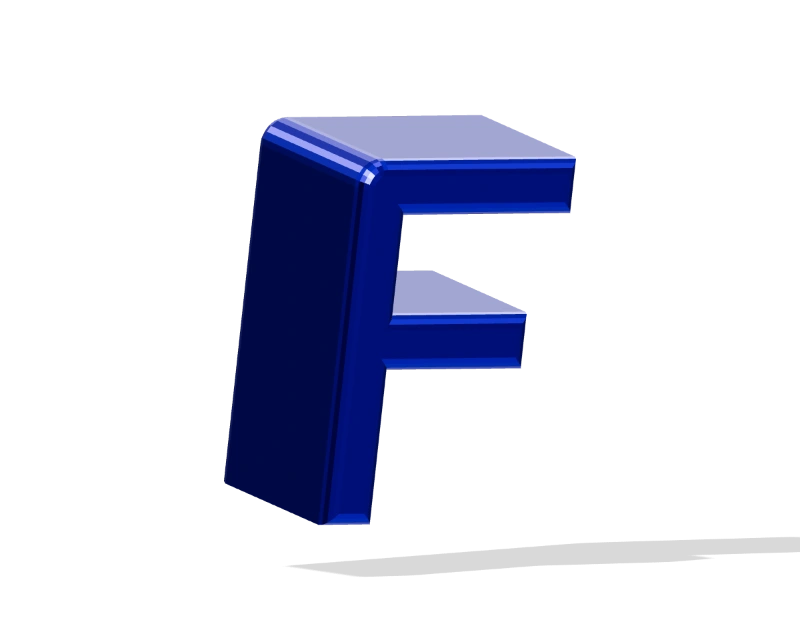
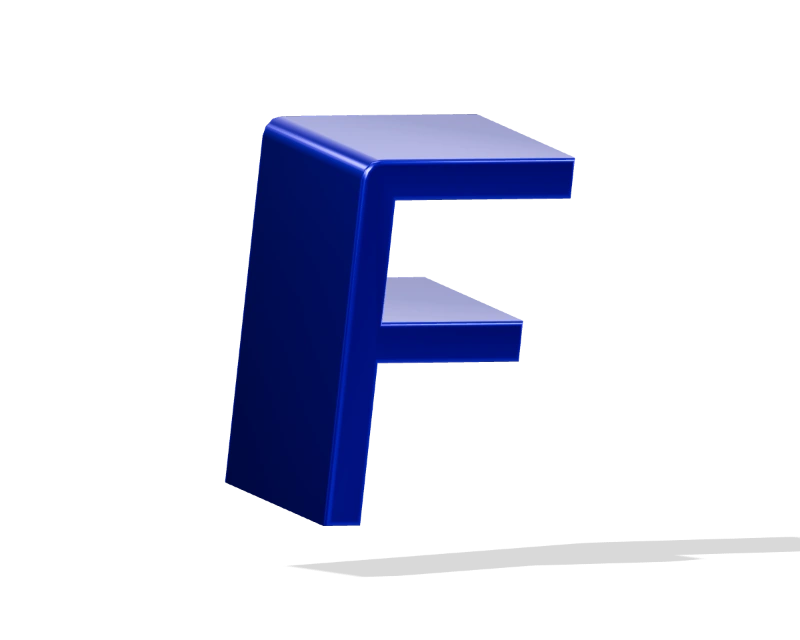
Publish 1.9 download links and the updated product walkthrough

diff --git a/website/index.html b/website/index.html
@@ -4,28 +4,28 @@
 <meta http-equiv="Content-Security-Policy" content="default-src 'self'; script-src 'self'; style-src 'self'; img-src 'self' data:; font-src 'self'; connect-src 'none'; object-src 'none'; frame-src 'none'; base-uri 'none'; form-action 'none'">
 <meta name="referrer" content="strict-origin-when-cross-origin">
 <title>Forma Studio — Give your ideas room.</title><meta name="description" content="A little idea. A whole lot of possibility. An editable desktop design studio with your own AI, campaigns, 3D and optional backups to your Wasabi account. Free for Windows.">
-<meta name="theme-color" content="#faf8f2"><link rel="icon" href="assets/mark.svg"><link rel="preload" href="assets/forma-display.ttf" as="font" type="font/ttf" crossorigin><link rel="stylesheet" href="style.css?v=room3"><script src="site.js?v=room3" defer></script>
+<meta name="theme-color" content="#faf8f2"><link rel="icon" href="assets/mark.svg"><link rel="preload" href="assets/forma-display.ttf" as="font" type="font/ttf" crossorigin><link rel="stylesheet" href="style.css?v=studio190"><script src="site.js?v=studio190" defer></script>
 </head><body>
 <a class="skip" href="#main">Skip to content</a>
 <header class="site-header"><a class="brand" href="#" aria-label="Forma Studio home"><img src="assets/logo.svg" width="170" height="40" alt="Forma Studio"></a><nav aria-label="Main navigation"><a href="#collection">Made with Forma</a><a href="#studio">Meet your studio</a><a href="walkthrough.html">The walkthrough</a></nav><div class="header-actions"><button class="motion-toggle" type="button" aria-label="Pause animations" aria-pressed="false">Ⅱ</button><a class="button small" href="#download">Get Forma </a></div></header>
 <main id="main">
 <section class="hero" aria-labelledby="hero-title">
-  <div class="hero-copy enter"><h1 id="hero-title">A little idea.<br>A whole lot of<br><span class="accent">possibility.</span></h1><p>Give it shape. Give it color. Give it a life of its own.<br>Meet your new desktop design studio.</p><a class="button download-link" href="https://tryformastudio.netlify.app/downloads/v1.8.0/Forma-Studio-Setup-1.8.0.exe">Download for Windows</a><p class="availability">Free for Windows. Your AI account. Your creative freedom.</p></div>
+  <div class="hero-copy enter"><h1 id="hero-title">A little idea.<br>A whole lot of<br><span class="accent">possibility.</span></h1><p>Give it shape. Give it color. Give it a life of its own.<br>Meet your new desktop design studio.</p><a class="button download-link" href="https://tryformastudio.netlify.app/downloads/v1.9.0/Forma-Studio-Setup-1.9.0.exe">Download for Windows</a><p class="availability">Free for Windows. Your AI account. Your creative freedom.</p></div>
   <div class="hero-composition composition-left" aria-hidden="true"><div class="paper-loop"></div><figure class="floating-art art-bloom"><img src="assets/modern-studio-011.webp" width="720" height="720" alt=""></figure><figure class="floating-art art-card"><img src="assets/modern-studio-055.webp" width="720" height="412" alt=""></figure></div>
-  <div class="hero-composition composition-right" aria-hidden="true"><div class="color-disc"></div><figure class="floating-art art-birthday"><img src="assets/modern-studio-083.webp" width="720" height="720" alt=""></figure><figure class="floating-art art-gallery"><img src="assets/modern-studio-113.webp" width="720" height="720" alt=""></figure></div>
+  <div class="hero-composition composition-right" aria-hidden="true"><div class="color-disc"></div><figure class="floating-art art-birthday"><img src="assets/modern-studio-083-v1.9.webp" width="720" height="720" alt=""></figure><figure class="floating-art art-gallery"><img src="assets/modern-studio-113.webp" width="720" height="720" alt=""></figure></div>
 
 </section>
 <section class="collection section" id="collection"><div class="section-heading enter"><h2>Whatever’s in your head,<br><span class="accent">let it out.</span></h2><p>A launch. A birthday. A very big announcement.<br>Start with a design. Make every piece your own.</p></div>
 <div class="gallery-tools"><div class="filters" role="group" aria-label="Template categories"><button type="button" data-filter="all" aria-pressed="true">All designs</button><button type="button" data-filter="business" aria-pressed="false">Business</button><button type="button" data-filter="celebrations" aria-pressed="false">Celebrations</button><button type="button" data-filter="editorial" aria-pressed="false">Posters &amp; editorial</button></div><div class="gallery-navigation"><button class="round gallery-prev" aria-label="Previous templates">Previous</button><button class="round gallery-next" aria-label="Next templates">Next</button></div></div><div class="gallery" tabindex="0" role="region" aria-roledescription="carousel" aria-label="Editable design collection. Swipe or use left and right arrow keys."></div><p class="gallery-count sr-only" aria-live="polite">12 designs on show</p></section>
 <section class="studio section" id="studio"><div class="section-heading enter"><h2>All the tools.<br><span class="accent">All yours.</span></h2><p>Push the type. Crop the photo. Move things around.<br>This is your space to get it just right.</p></div>
-<div class="studio-tabs" role="tablist" aria-label="Explore the real editor"><button id="tab-photo" role="tab" aria-selected="true" aria-controls="editor-photo" data-editor="photo">Photos &amp; layers</button><button id="tab-solid" role="tab" aria-selected="false" aria-controls="editor-solid" tabindex="-1" data-editor="solid">3D objects</button><button id="tab-chart" role="tab" aria-selected="false" aria-controls="editor-chart" tabindex="-1" data-editor="chart">Charts &amp; data</button><button id="tab-campaign" role="tab" aria-selected="false" aria-controls="editor-campaign" tabindex="-1" data-editor="campaign">AI campaigns</button></div>
-<div class="editor-views enter"><figure id="editor-photo" role="tabpanel" aria-labelledby="tab-photo"><img src="assets/editor-photo-v1.5.png" width="1600" height="1000" loading="lazy" alt="Forma’s actual editor with an editable florist campaign, photo crops and individual typography layers"><figcaption>Every word, photo and layer stays editable.</figcaption></figure><figure id="editor-solid" role="tabpanel" aria-labelledby="tab-solid" hidden><img src="assets/editor-solid-v1.5.png" width="1600" height="1000" loading="lazy" alt="The actual Forma editor with native 3D numerals, angle, material and bevel controls"><figcaption>Turn the angle. Change the material. Add some depth.</figcaption></figure><figure id="editor-chart" role="tabpanel" aria-labelledby="tab-chart" hidden><img src="assets/editor-chart-v1.5.png" width="1600" height="1000" loading="lazy" alt="Forma’s pitch deck and chart data editor"><figcaption>Your data, your charts, your story.</figcaption></figure><figure id="editor-campaign" role="tabpanel" aria-labelledby="tab-campaign" hidden><img src="assets/campaign-modern-v1.5.png" width="1600" height="1000" loading="lazy" alt="Forma Campaign Studio with objectives, folders and designs for multiple formats"><figcaption>Keep the campaign together. Give every format its own composition.</figcaption></figure></div></section>
+<div class="studio-tabs" role="tablist" aria-label="Explore the real editor"><button id="tab-photo" role="tab" aria-selected="true" aria-controls="editor-photo" data-editor="photo">Photos &amp; layers</button><button id="tab-solid" role="tab" aria-selected="false" aria-controls="editor-solid" tabindex="-1" data-editor="solid">3D objects</button><button id="tab-chart" role="tab" aria-selected="false" aria-controls="editor-chart" tabindex="-1" data-editor="chart">Charts &amp; data</button><button id="tab-campaign" role="tab" aria-selected="false" aria-controls="editor-campaign" tabindex="-1" data-editor="campaign">AI campaigns</button><button id="tab-whiteboard" role="tab" aria-selected="false" aria-controls="editor-whiteboard" tabindex="-1" data-editor="whiteboard">Whiteboard</button></div>
+<div class="editor-views enter"><figure id="editor-photo" role="tabpanel" aria-labelledby="tab-photo"><img src="assets/editor-photo-v1.5.png" width="1600" height="1000" loading="lazy" alt="Forma’s actual editor with an editable florist campaign, photo crops and individual typography layers"><figcaption>Every word, photo and layer stays editable.</figcaption></figure><figure id="editor-solid" role="tabpanel" aria-labelledby="tab-solid" hidden><img src="assets/smooth-3d-v1.9.png" width="1600" height="1000" loading="lazy" alt="The actual Forma editor with native 3D numerals, angle, material and bevel controls"><figcaption>Turn the angle. Change the material. Add some depth.</figcaption></figure><figure id="editor-chart" role="tabpanel" aria-labelledby="tab-chart" hidden><img src="assets/editor-chart-v1.5.png" width="1600" height="1000" loading="lazy" alt="Forma’s pitch deck and chart data editor"><figcaption>Your data, your charts, your story.</figcaption></figure><figure id="editor-campaign" role="tabpanel" aria-labelledby="tab-campaign" hidden><img src="assets/campaign-modern-v1.5.png" width="1600" height="1000" loading="lazy" alt="Forma Campaign Studio with objectives, folders and designs for multiple formats"><figcaption>Keep the campaign together. Give every format its own composition.</figcaption></figure><figure id="editor-whiteboard" role="tabpanel" aria-labelledby="tab-whiteboard" hidden><img src="assets/whiteboard-v1.9.png" width="1600" height="1000" loading="lazy" alt="Forma whiteboard with a campaign photo, sticky notes, attached connectors and a local comment"><figcaption>Give ideas room. Connect them, move them, keep the plan together.</figcaption></figure></div></section>
 <section class="ai-story section" id="your-ai"><div class="ai-copy enter"><h2>A creative partner.<br><span class="accent">You set the direction.</span></h2><p>Bring your own AI account. Bring your brand’s purpose and your personal style. Then tell Forma what you’re trying to say.</p><p>Create a design, refine a selection, or draw exactly where an image needs a change. Keep shaping it until it feels like you.</p><a class="text-link" href="walkthrough.html#ai-guide">Meet the AI tools </a></div><div class="intent-art enter" aria-label="Brand purpose and personal style coming together in an editable campaign"><div class="intent-paper paper-purpose"><strong>Good things.<br>Grown here.</strong><p>A neighborhood florist.<br>Seasonal flowers. Thoughtful gifts.</p><div class="swatches" aria-label="A florist’s warm green and coral brand palette"><i></i><i></i><i></i><i></i></div></div><figure class="intent-paper paper-result"><img src="assets/modern-studio-011.webp" width="720" height="720" alt="An editable florist promotion with bold typography and photographic flowers" loading="lazy"></figure></div></section>
 <section class="campaign-story section"><div class="campaign-art enter"><img class="campaign-image-one" src="assets/modern-studio-131.webp" width="720" height="405" alt="A florist brand pitch deck" loading="lazy"><img class="campaign-image-two" src="assets/modern-studio-011.webp" width="720" height="720" alt="Coordinated florist campaign artwork" loading="lazy"><div class="campaign-folder" aria-hidden="true"><span>One good idea.<br>Everywhere it needs to be.</span></div></div><div class="campaign-copy enter"><h2>Think bigger<br><span class="accent">than one post.</span></h2><p>Give your campaign an objective. Create focused folders for each message. Add your photos and choose the formats you need.</p><p>Instagram. Facebook. LinkedIn. A poster in the window. Build a collection that belongs together.</p><a class="text-link" href="walkthrough.html#campaigns">Build your first campaign </a></div></section>
-<section class="dimension section" id="dimension"><div class="dimension-copy enter"><h2>Some ideas<br>have <span class="accent">another side.</span></h2><p>Real 3D letters, numbers and objects.<br>Turn them. Light them. Make them move.</p></div><div class="solid-preview enter"><div class="solid-stage" tabindex="0" role="slider" aria-label="Rotate the 3D letter" aria-valuemin="-80" aria-valuemax="80" aria-valuenow="0" aria-valuetext="0 degrees. Use left and right arrow keys."><img id="solid-image" src="assets/solid-turn-8.webp" width="800" height="640" loading="lazy" draggable="false" alt="A dimensional letter F rendered by Forma"></div><div class="solid-controls"><label for="rotation">Take it for a spin</label><output for="rotation" id="rotation-value">0°</output><input id="rotation" aria-label="3D rotation" type="range" min="-80" max="80" step="10" value="0"></div></div></section>
+<section class="dimension section" id="dimension"><div class="dimension-copy enter"><h2>Some ideas<br>have <span class="accent">another side.</span></h2><p>Real 3D letters, numbers and objects.<br>Turn them. Light them. Make them move.</p></div><div class="solid-preview enter"><div class="solid-stage" tabindex="0" role="slider" aria-label="Rotate the 3D letter" aria-valuemin="-80" aria-valuemax="80" aria-valuenow="0" aria-valuetext="0 degrees. Use left and right arrow keys."><img id="solid-image" src="assets/solid-turn-v1.9-8.webp" width="800" height="640" loading="lazy" draggable="false" alt="A dimensional letter F rendered by Forma"></div><div class="solid-controls"><label for="rotation">Take it for a spin</label><output for="rotation" id="rotation-value">0°</output><input id="rotation" aria-label="3D rotation" type="range" min="-80" max="80" step="10" value="0"></div></div></section>
 <section class="backup-story section" id="cloud-backup"><div class="backup-copy enter"><h2>At home on your desktop.<br><span class="accent">Backed up on your terms.</span></h2><p>Your work saves on your device. Want a second copy? Connect your own Wasabi account and send your saved workspace straight to your private bucket.</p><p>Designs, campaigns, photos, fonts and your shared brand and style. Back them up together. Restore projects as copies when you need them.</p><a class="text-link" href="walkthrough.html#cloud-storage">Set up your storage </a></div><div class="backup-art enter" aria-hidden="true"><svg viewBox="0 0 600 460" fill="none"><path class="backup-connection" d="M166 288C69 164 199 73 338 146S568 256 451 328" stroke="#764bdd" stroke-width="5" stroke-dasharray="9 13" stroke-linecap="round"/><g class="backup-folder"><path d="M82 229Q82 207 104 207H178L206 231H342Q364 231 364 253V378Q364 400 342 400H104Q82 400 82 378Z" fill="#d5c2fb" stroke="#392450" stroke-width="3"/><path d="M73 268Q69 250 89 250H355Q375 250 371 270L351 390Q348 407 328 407H111Q91 407 88 388Z" fill="#764bdd" stroke="#392450" stroke-width="3"/><path d="M156 348V310Q156 285 181 285H232L214 303H183Q173 303 173 315V318H211L193 335H173V348Z" fill="#fff9e9"/><path d="M197 352H222Q237 352 237 337V314L254 297V337Q254 369 222 369H180Z" fill="#fff9e9"/></g><g class="backup-cloud"><path d="M362 93C365 48 420 34 448 65C482 53 507 74 507 103C544 105 558 152 531 174C521 182 505 184 491 184H367C315 184 309 113 351 98Z" fill="#ffe28b" stroke="#392450" stroke-width="3"/><path d="M398 126L416 144L450 110" stroke="#392450" stroke-width="5" stroke-linecap="round" stroke-linejoin="round"/></g></svg></div></section>
-<section class="download section" id="download"><div class="download-top enter"><h2>Go on.<br><span class="accent">See what happens.</span></h2><div><p class="download-price">A whole studio.<br>Free for Windows.</p><a class="button download-link" href="https://tryformastudio.netlify.app/downloads/v1.8.0/Forma-Studio-Setup-1.8.0.exe">Download Forma</a><p>Install it. Open it. Make something yours.</p><p class="mac"><a href="https://tryformastudio.netlify.app/mac.html">Mac · $49 once <span>Coming soon</span></a></p></div></div>
-<div class="faq"><details><summary>What am I downloading?<span aria-hidden="true">+</span></summary><p>Forma Studio <span class="app-version">1.8.0</span> for Windows 10/11, 64-bit. The installer includes the editor, local AI worker and Codex CLI. Open it from your desktop or Start menu. This release is unsigned.</p></details><details><summary>Do I need an AI subscription?<span aria-hidden="true">+</span></summary><p>Manual design tools and exports work without AI, including offline. AI tools use your own Codex, Claude, Gemini or Kimi account through its installed CLI. Choose one provider, or let Claude plan before Codex builds. Native AI image creation uses Codex. Internet access and provider usage apply. Forma does not include an AI subscription or charge for provider usage.</p></details><details><summary>Does my work leave my computer?<span aria-hidden="true">+</span></summary><p>Designs save locally. AI requests send the relevant brief and content to your provider. Optional Wasabi backups go directly to the storage account you connect; Wasabi bills you separately. Mac payments and activation use managed Stripe and Netlify services.</p></details><details><summary>When can I get the Mac edition?<span aria-hidden="true">+</span></summary><p>Mac is $49 as a one-time payment for one Mac, with Intel and Apple Silicon support on macOS 12 or later. Checkout stays closed until the signed Mac installer and payment delivery are ready. <a href="https://tryformastudio.netlify.app/mac.html">Check Mac availability</a></p></details></div></section>
+<section class="download section" id="download"><div class="download-top enter"><h2>Go on.<br><span class="accent">See what happens.</span></h2><div><p class="download-price">A whole studio.<br>Free for Windows.</p><a class="button download-link" href="https://tryformastudio.netlify.app/downloads/v1.9.0/Forma-Studio-Setup-1.9.0.exe">Download Forma</a><p>Install it. Open it. Make something yours.</p><p class="mac"><a href="https://tryformastudio.netlify.app/mac.html">Mac · $49 once <span>Coming soon</span></a></p></div></div>
+<div class="faq"><details><summary>What am I downloading?<span aria-hidden="true">+</span></summary><p>Forma Studio <span class="app-version">1.9.0</span> for Windows 10/11, 64-bit. The installer includes the editor, local AI worker and Codex CLI. Open it from your desktop or Start menu. This release is unsigned.</p></details><details><summary>Do I need an AI subscription?<span aria-hidden="true">+</span></summary><p>Manual design tools and exports work without AI, including offline. AI tools use your own Codex, Claude, Gemini or Kimi account through its installed CLI. Choose one provider, or let Claude plan before Codex builds. Native AI image creation uses Codex. Internet access and provider usage apply. Forma does not include an AI subscription or charge for provider usage.</p></details><details><summary>Does my work leave my computer?<span aria-hidden="true">+</span></summary><p>Designs save locally. AI requests send the relevant brief and content to your provider. Optional Wasabi backups go directly to the storage account you connect; Wasabi bills you separately. Mac payments and activation use managed Stripe and Netlify services.</p></details><details><summary>When can I get the Mac edition?<span aria-hidden="true">+</span></summary><p>Mac is $49 as a one-time payment for one Mac, with Intel and Apple Silicon support on macOS 12 or later. Checkout stays closed until the signed Mac installer and payment delivery are ready. <a href="https://tryformastudio.netlify.app/mac.html">Check Mac availability</a></p></details></div></section>
 </main><footer><a href="#" aria-label="Forma Studio home"><img src="assets/logo-light.svg" width="215" height="51" alt="Forma Studio"></a><p>Good ideas deserve room.</p><a href="walkthrough.html">The walkthrough</a></footer>
-<dialog id="template-preview" aria-labelledby="preview-title"><div class="dialog-top"><h2 id="preview-title">Design preview</h2><button class="round close-preview" type="button" aria-label="Close preview">×</button></div><img id="preview-image" alt=""><a class="button download-link" href="https://tryformastudio.netlify.app/downloads/v1.8.0/Forma-Studio-Setup-1.8.0.exe">Make it yours in Forma</a></dialog>
+<dialog id="template-preview" aria-labelledby="preview-title"><div class="dialog-top"><h2 id="preview-title">Design preview</h2><button class="round close-preview" type="button" aria-label="Close preview">×</button></div><img id="preview-image" alt=""><a class="button download-link" href="https://tryformastudio.netlify.app/downloads/v1.9.0/Forma-Studio-Setup-1.9.0.exe">Make it yours in Forma</a></dialog>
 </body></html>

diff --git a/website/walkthrough.html b/website/walkthrough.html
@@ -7,10 +7,10 @@
 <meta name="theme-color" content="#f5f2e9"><link rel="icon" href="assets/mark.svg"><link rel="stylesheet" href="style.css?v=modern1"><link rel="stylesheet" href="walkthrough.css">
 </head><body class="guide-page"><a class="skip" href="#main">Skip to content</a>
 <header class="site-header"><a class="brand" href="index.html" aria-label="Forma Studio home"><img src="assets/logo.svg" width="174" height="50" alt="Forma Studio"></a><nav aria-label="Main navigation"><a href="#first-design">First design</a><a href="#ai-guide">Your AI</a><a href="#save">Save &amp; export</a></nav><a class="button small" href="index.html#download">Get Forma </a></header>
-<main id="main" class="guide-main"><section class="guide-intro"><p class="guide-kicker">The walkthrough</p><h1>Your idea.<br><span class="accent">Start here.</span></h1><p>From opening Forma to making something your own.</p><a class="button" href="https://tryformastudio.netlify.app/downloads/v1.8.0/Forma-Studio-Setup-1.8.0.exe">Download for Windows </a></section>
+<main id="main" class="guide-main"><section class="guide-intro"><p class="guide-kicker">The walkthrough</p><h1>Your idea.<br><span class="accent">Start here.</span></h1><p>From opening Forma to making something your own.</p><a class="button" href="https://tryformastudio.netlify.app/downloads/v1.9.0/Forma-Studio-Setup-1.9.0.exe">Download for Windows </a></section>
 <section class="guide-section" id="install"><div class="guide-copy"><span class="guide-number">01</span><h2>Install. Open. Create.</h2><p>Download the Windows installer, run it and choose your installation folder. Open <strong>Forma Studio</strong> from your desktop or Start menu. No terminal, Node.js or Docker is needed for everyday use.</p><p>Windows 10/11, 64-bit. The current installer is unsigned, so Windows may show an unknown-publisher warning.</p></div><figure><img src="assets/editor-v1.8.png" width="1440" height="900" alt="The Forma editor with its design canvas and main actions" loading="lazy"><figcaption>The desktop editor. Your work stays editable.</figcaption></figure></section>
 <section class="guide-section" id="first-design"><div class="guide-copy"><span class="guide-number">02</span><h2>Make your first design.</h2><p>Choose a template from <strong>Design</strong>, or start a blank canvas. Add text, photos and elements from the sidebar. Drag to arrange, use the handles to resize, and select several objects to move or group them together.</p><p>Right-click a selection for actions such as <strong>Improve with AI</strong>. Undo is always there while you explore.</p></div><div class="guide-note"><h3>Give it your direction.</h3><p>Open <strong>Brand / Set up brand &amp; style</strong>. Add your business, mission, palette and personal design preferences in one place. This gives the AI shared context for future requests.</p><img src="assets/guide-brand-and-style-v1.6.png" width="1440" height="900" alt="Combined brand and personal design-style setup" loading="lazy"></div></section>
-<section class="guide-section" id="ai-guide"><div class="guide-copy"><span class="guide-number">03</span><h2>Your AI.<br>Your direction.</h2><p>Open <strong>AI Designer / AI account &amp; connection</strong>. Choose Codex, Claude, Gemini or Kimi, using your own installed and signed-in CLI. Codex is included with Forma. Or choose <strong>Claude plans / Codex builds</strong> for a sequential handoff. Only one model runs at a time. A detected CLI still needs an authenticated account with available usage.</p><p>AI needs your own supported account, internet access and available provider usage. The brief and relevant content go to that provider; account costs are separate from Forma. Manual editing and exports work offline.</p></div><div class="guide-note"><h3>A brief that helps.</h3><p>Describe the audience, purpose, format, main message and what must stay unchanged. Upload the images you want used. Review the result and any review warnings before applying it.</p><h3>See the work being submitted.</h3><p>In the same connection panel, open <strong>Peek under the commands</strong> to inspect submitted instructions, commands, actions and results. The activity view omits private reasoning and redacts recognized credentials.</p><h3>Change one specific area.</h3><p>Photo generation, AI Pencil and Magic Eraser use Codex native image generation. Select a photo, right-click and choose <strong>AI Pencil</strong>. Mark the area, describe the change, and review it in the context of the original image.</p></div></section>
+<section class="guide-section" id="ai-guide"><div class="guide-copy"><span class="guide-number">03</span><h2>Your AI.<br>Your direction.</h2><p>Open <strong>Help / AI accounts &amp; models</strong>. Choose Codex, Claude, Gemini or Kimi, using your own installed and signed-in CLI. Codex is included with Forma. Or choose <strong>Claude plans / Codex builds</strong> for a sequential handoff. Only one model runs at a time. A detected CLI still needs an authenticated account with available usage.</p><p>AI needs your own supported account, internet access and available provider usage. The brief and relevant content go to that provider; account costs are separate from Forma. Manual editing and exports work offline.</p></div><div class="guide-note"><img src="assets/ai-help-v1.9.png" width="1600" height="1000" alt="AI accounts and model settings in the Forma Help screen" loading="lazy"><h3>Connect your account.</h3><p>In the desktop app, choose Sign in to Claude, Codex or Kimi. The sequential workflow shows both Claude and Codex buttons. For Claude, choose subscription sign-in or your existing API billing. Complete sign-in, then save the AI choice. Gemini uses its own CLI sign-in.</p><h3>A brief that helps.</h3><p>Describe the audience, purpose, format, main message and what must stay unchanged. Upload the images you want used. Review the result and any review warnings before applying it.</p><h3>See the work being submitted.</h3><p>In the same connection panel, open <strong>Peek under the commands</strong> to inspect submitted instructions, commands, actions and results. The activity view omits private reasoning and redacts recognized credentials.</p><h3>Change one specific area.</h3><p>Photo generation, AI Pencil and Magic Eraser use Codex native image generation. Select a photo, right-click and choose <strong>AI Pencil</strong>. Mark the area, describe the change, and review it in the context of the original image.</p></div></section>
 <section class="guide-section" id="campaigns"><div class="guide-copy"><span class="guide-number">04</span><h2>Build a campaign.</h2><p>Open <strong>Campaigns</strong> in the editor header. Create the campaign around one objective, then use folders for different audiences, offers or subcampaigns.</p><p>Give each folder its intent, choose the formats and quantity, upload your images, then create the designs. Review and edit each result before exporting.</p></div><div class="guide-note"><h3>Keep the details editable.</h3><p>Add charts and edit their data in the inspector. Use photo frames and crop controls, rotate 3D objects, and adjust individual text and graphic layers.</p><img src="assets/guide-advanced-chart-editor-v1.6.png" width="1440" height="900" alt="Editable chart data and chart styles in the Forma inspector" loading="lazy"></div></section>
-<section class="guide-section" id="save"><div class="guide-copy"><span class="guide-number">05</span><h2>Keep it.<br>Share it.</h2><p>Your designs save on this device. Use <strong>Export / Forma JSON</strong> for an editable backup or to move a design to another computer. Import that file into Forma to keep working.</p><p>Export finished work as PNG, JPG, SVG or PDF. Use GIF for silent animation, or MP4 / WebM for movies with saved page audio. Select all pages to stitch them into one movie. Keep an editable JSON backup before moving or uninstalling the app.</p></div><div class="guide-note"><h3>Give it a soundtrack.</h3><p>Choose <strong>Audio</strong> beside the page strip to record or import clips. Set trim and timeline positions to hundredths of a second. Speed and volume start at 100%. Split and join clips, download an MP3 or WAV mix, or choose <strong>Save audio &amp; create movie</strong>. Speed changes also change pitch.</p><img src="assets/audio-v1.8.png" width="1500" height="1000" alt="Page audio controls for trim, timeline position, speed and volume" loading="lazy"><h3>Stay up to date.</h3><p>Choose <strong>Help / Check for updates</strong>. Download the update, then choose <strong>Save &amp; restart</strong> when you are ready. Your designs remain on the device.</p><p>Versions 1.1.x need the current installer once to enable future in-app updates.</p><a class="button" href="index.html#download">Get Forma </a></div></section><section class="guide-section" id="cloud-storage"><div class="guide-copy"><h2>Your storage.<br><span class="accent">Your choice.</span></h2><p>In the desktop app, open <strong>My designs / Cloud storage</strong>. Connect your own Wasabi account to back up designs, campaigns, uploads, fonts, text kits and your shared brand and style together.</p><p>Local saves continue independently. Cloud keys are encrypted on your computer; backup transfers go directly to your private Wasabi bucket. Wasabi bills your account separately.</p><p>Choose <strong>Back up now</strong> or enable automatic backups of changed saved work, up to every 15 minutes while Forma is open. Backups are compressed and limited to 256 MB of saved workspace data each. Built-in assets and AI credentials are not uploaded.</p></div><div class="guide-note"><h3>Connect your bucket.</h3><ol><li>Create a <a href="https://wasabi.com/" target="_blank" rel="noreferrer">Wasabi account</a> and a private bucket. Keep public access off.</li><li>Create a dedicated programmatic user with <strong>s3:ListBucket</strong> on that bucket and <strong>s3:PutObject</strong> / <strong>s3:GetObject</strong> on <strong>YOUR_BUCKET/forma-studio/backups/*</strong>. Delete access is not needed.</li><li>Create the user's access key. In Forma, enter its bucket, region, matching <a href="https://docs.wasabi.com/docs/what-are-the-service-urls-for-wasabi-s-different-storage-regions" target="_blank" rel="noreferrer">HTTPS endpoint</a>, access key and secret.</li><li>Choose <strong>Connect &amp; back up</strong>. Wait for the completed-backup confirmation.</li></ol><h3>Recover without losing current projects.</h3><p>Choose <strong>Browse backups / Review restore</strong>. Restore adds designs and campaigns as new copies. You decide whether to use the saved brand and style. Unfinished AI work stays paused until you resume it. Finish or pause running campaigns first, then reopen the studio after restoring.</p><p>Disconnect keeps the existing backups in your account. Manage history and retention there. Review Wasabi’s <a href="https://docs.wasabi.com/docs/how-does-wasabis-monthly-minimum-storage-charge-work" target="_blank" rel="noreferrer">storage minimums</a> and <a href="https://docs.wasabi.com/docs/how-does-wasabis-minimum-storage-duration-policy-work" target="_blank" rel="noreferrer">retention billing</a>.</p></div></section></main>
+<section class="guide-section" id="whiteboard"><div class="guide-copy"><h2>Give the idea<br><span class="accent">some room.</span></h2><p>Choose <strong>New design / Whiteboard</strong>. Add photos, containers and sticky notes. Draw a connector between objects, or select two and connect them. Drag an end to reconnect it, or the middle handle to bend it.</p><p>Attached arrows follow objects as they move and resize. Routes avoid obstructions; Properties controls labels, colors, patterns and end markers. Notes and photos inside a container move together. Hold Space and drag to pan.</p><p>Use the existing marker, highlighter and stroke eraser. Add local comment pins, resolve them, and keep them with the editable backup. Comment pins stay out of finished artwork exports.</p></div><figure><img src="assets/whiteboard-v1.9.png" width="1600" height="1000" alt="A real Forma whiteboard with photos, sticky notes, attached arrows and a comment" loading="lazy"><figcaption>Plan, connect and review in your local workspace.</figcaption></figure></section><section class="guide-section" id="photo-filters"><div class="guide-copy"><h2>See the look.<br><span class="accent">Then choose.</span></h2><p>Select a photo and open <strong>Properties / Photo filters</strong>. Each of the 28 looks previews your selected photo above its name, with its crop and current adjustments. Stack up to six looks, change strengths and brightness, reorder or reset them.</p><p>Previews are generated locally from small copies. Your original image stays editable.</p></div><figure><img src="assets/photo-filter-previews-v1.9.png" width="1600" height="1000" alt="The selected photo previewed above every filter name in Forma" loading="lazy"></figure></section><section class="guide-section" id="save"><div class="guide-copy"><span class="guide-number">05</span><h2>Keep it.<br>Share it.</h2><p>Your designs save on this device. Use <strong>Export / Forma JSON</strong> for an editable backup or to move a design to another computer. Import that file into Forma to keep working.</p><p>Export finished work as PNG, JPG, SVG or PDF. Use GIF for silent animation, or MP4 / WebM for movies with saved page audio. Select all pages to stitch them into one movie. Keep an editable JSON backup before moving or uninstalling the app.</p></div><div class="guide-note"><h3>Give it a soundtrack.</h3><p>Choose <strong>Audio</strong> beside the page strip to record or import clips. Set trim and timeline positions to hundredths of a second. Speed and volume start at 100%. Split and join clips, download an MP3 or WAV mix, or choose <strong>Save audio &amp; create movie</strong>. Speed changes also change pitch.</p><img src="assets/audio-v1.8.png" width="1500" height="1000" alt="Page audio controls for trim, timeline position, speed and volume" loading="lazy"><h3>Stay up to date.</h3><p>Choose <strong>Help / Check for updates</strong>. Download the update, then choose <strong>Save &amp; restart</strong> when you are ready. Your designs remain on the device.</p><p>Versions 1.1.x need the current installer once to enable future in-app updates.</p><a class="button" href="index.html#download">Get Forma </a></div></section><section class="guide-section" id="cloud-storage"><div class="guide-copy"><h2>Your storage.<br><span class="accent">Your choice.</span></h2><p>In the desktop app, open <strong>My designs / Cloud storage</strong>. Connect your own Wasabi account to back up designs, campaigns, uploads, fonts, text kits and your shared brand and style together.</p><p>Local saves continue independently. Cloud keys are encrypted on your computer; backup transfers go directly to your private Wasabi bucket. Wasabi bills your account separately.</p><p>Choose <strong>Back up now</strong> or enable automatic backups of changed saved work, up to every 15 minutes while Forma is open. Backups are compressed and limited to 256 MB of saved workspace data each. Built-in assets and AI credentials are not uploaded.</p></div><div class="guide-note"><h3>Connect your bucket.</h3><ol><li>Create a <a href="https://wasabi.com/" target="_blank" rel="noreferrer">Wasabi account</a> and a private bucket. Keep public access off.</li><li>Create a dedicated programmatic user with <strong>s3:ListBucket</strong> on that bucket and <strong>s3:PutObject</strong> / <strong>s3:GetObject</strong> on <strong>YOUR_BUCKET/forma-studio/backups/*</strong>. Delete access is not needed.</li><li>Create the user's access key. In Forma, enter its bucket, region, matching <a href="https://docs.wasabi.com/docs/what-are-the-service-urls-for-wasabi-s-different-storage-regions" target="_blank" rel="noreferrer">HTTPS endpoint</a>, access key and secret.</li><li>Choose <strong>Connect &amp; back up</strong>. Wait for the completed-backup confirmation.</li></ol><h3>Recover without losing current projects.</h3><p>Choose <strong>Browse backups / Review restore</strong>. Restore adds designs and campaigns as new copies. You decide whether to use the saved brand and style. Unfinished AI work stays paused until you resume it. Finish or pause running campaigns first, then reopen the studio after restoring.</p><p>Disconnect keeps the existing backups in your account. Manage history and retention there. Review Wasabi’s <a href="https://docs.wasabi.com/docs/how-does-wasabis-monthly-minimum-storage-charge-work" target="_blank" rel="noreferrer">storage minimums</a> and <a href="https://docs.wasabi.com/docs/how-does-wasabis-minimum-storage-duration-policy-work" target="_blank" rel="noreferrer">retention billing</a>.</p></div></section></main>
 <footer><div class="footer-top"><a href="index.html" aria-label="Forma Studio home"><img src="assets/logo-light.svg" width="210" height="60" alt="Forma Studio"></a><div><a href="index.html">Back to Forma /</a></div></div></footer></body></html>

diff --git a/website/site.js b/website/site.js
@@ -4,16 +4,17 @@ function setPaused(value){paused=value;document.body.classList.toggle('motion-pa
 const entrances=new IntersectionObserver(entries=>entries.forEach(entry=>{if(entry.isIntersecting){entry.target.classList.add('in-view');entrances.unobserve(entry.target);}}),{threshold:.09,rootMargin:'0px 0px -20px 0px'});document.querySelectorAll('.enter').forEach(node=>entrances.observe(node));
 const items=[['studio-011','This week in bloom','Photographic campaign','editorial'],['studio-055','Leah Atlas','Architect business card','business'],['studio-083','Sweet sixteen','Editable 3D birthday invitation','celebrations'],['occasion-075','Quiet spaces','Architecture editorial','editorial'],['studio-107','The pastry edit','Bakery flyer','editorial'],['studio-131','Petal','A four-page pitch deck','business'],['studio-087','Fifty, in good company','Garden supper invitation','celebrations'],['studio-113','Forms in conversation','Gallery poster','editorial'],['occasion-065','Move stronger','Fitness campaign','editorial'],['studio-016','A transparent scope','Project estimate','business'],['occasion-012','Save the date','Calendar wedding invitation','celebrations'],['studio-058','Nia Brooks','Designer business card','business']];
 const gallery=document.querySelector('.gallery'),count=document.querySelector('.gallery-count'),dialog=document.querySelector('#template-preview'),previewImage=document.querySelector('#preview-image'),previewTitle=document.querySelector('#preview-title');let suppressClick=false;
-function openPreview(item){if(suppressClick)return;previewImage.src=`assets/modern-${item[0]}.webp`;previewImage.alt=item[2];previewTitle.textContent=item[1];dialog.showModal();}
-function renderGallery(filter){gallery.replaceChildren();const visible=items.filter(item=>filter==='all'||item[3]===filter);for(const item of visible){const card=document.createElement('article');card.className='gallery-card enter';card.style.setProperty('--stagger',`${visible.indexOf(item)%3*.07}s`);const button=document.createElement('button');button.type='button';button.setAttribute('aria-label',`Preview ${item[1]}`);const image=new Image();image.src=`assets/modern-${item[0]}.webp`;image.alt=item[2];image.loading='lazy';image.draggable=false;button.append(image);button.addEventListener('click',()=>openPreview(item));const name=document.createElement('h3');name.textContent=item[1];const caption=document.createElement('p');caption.textContent=item[2];card.append(button,name,caption);gallery.append(card);entrances.observe(card);attachSurface(button);}gallery.scrollLeft=0;count.textContent=`${visible.length} designs on show`;}
+function designAsset(id){return `assets/modern-${id}${id==='studio-083'?'-v1.9':''}.webp`;}
+function openPreview(item){if(suppressClick)return;previewImage.src=designAsset(item[0]);previewImage.alt=item[2];previewTitle.textContent=item[1];dialog.showModal();}
+function renderGallery(filter){gallery.replaceChildren();const visible=items.filter(item=>filter==='all'||item[3]===filter);for(const item of visible){const card=document.createElement('article');card.className='gallery-card enter';card.style.setProperty('--stagger',`${visible.indexOf(item)%3*.07}s`);const button=document.createElement('button');button.type='button';button.setAttribute('aria-label',`Preview ${item[1]}`);const image=new Image();image.src=designAsset(item[0]);image.alt=item[2];image.loading='lazy';image.draggable=false;button.append(image);button.addEventListener('click',()=>openPreview(item));const name=document.createElement('h3');name.textContent=item[1];const caption=document.createElement('p');caption.textContent=item[2];card.append(button,name,caption);gallery.append(card);entrances.observe(card);attachSurface(button);}gallery.scrollLeft=0;count.textContent=`${visible.length} designs on show`;}
 renderGallery('all');document.querySelectorAll('[data-filter]').forEach(button=>button.addEventListener('click',()=>{document.querySelectorAll('[data-filter]').forEach(b=>b.setAttribute('aria-pressed',String(b===button)));renderGallery(button.dataset.filter);}));
 function scrollGallery(direction){const width=gallery.firstElementChild?.getBoundingClientRect().width||300;gallery.scrollBy({left:direction*(width+25),behavior:paused?'instant':'smooth'});}document.querySelector('.gallery-prev').addEventListener('click',()=>scrollGallery(-1));document.querySelector('.gallery-next').addEventListener('click',()=>scrollGallery(1));gallery.addEventListener('keydown',event=>{if(event.target!==gallery)return;if(event.key==='ArrowRight'||event.key==='ArrowLeft'){event.preventDefault();scrollGallery(event.key==='ArrowRight'?1:-1);}});
 let drag=null;gallery.addEventListener('pointerdown',e=>{if(e.pointerType!=='mouse'||e.button!==0)return;drag={x:e.clientX,scroll:gallery.scrollLeft,moved:false};});gallery.addEventListener('pointermove',e=>{if(!drag)return;const delta=e.clientX-drag.x;if(Math.abs(delta)>6){drag.moved=true;suppressClick=true;gallery.classList.add('dragging');gallery.scrollLeft=drag.scroll-delta;}});window.addEventListener('pointerup',()=>{if(!drag)return;const moved=drag.moved;drag=null;gallery.classList.remove('dragging');if(moved)setTimeout(()=>suppressClick=false,0);});
 document.querySelector('.close-preview').addEventListener('click',()=>dialog.close());dialog.addEventListener('click',event=>{const r=dialog.getBoundingClientRect();if(event.clientX<r.left||event.clientX>r.right||event.clientY<r.top||event.clientY>r.bottom)dialog.close();});
 const tabs=[...document.querySelectorAll('[data-editor]')];function selectEditor(button,focus=false){for(const tab of tabs){const active=tab===button;tab.setAttribute('aria-selected',String(active));tab.tabIndex=active?0:-1;document.querySelector(`#editor-${tab.dataset.editor}`).hidden=!active;}if(focus)button.focus();}tabs.forEach((tab,index)=>{tab.addEventListener('click',()=>selectEditor(tab));tab.addEventListener('keydown',event=>{let next;if(event.key==='ArrowRight')next=(index+1)%tabs.length;if(event.key==='ArrowLeft')next=(index-1+tabs.length)%tabs.length;if(event.key==='Home')next=0;if(event.key==='End')next=tabs.length-1;if(next!==undefined){event.preventDefault();selectEditor(tabs[next],true);}});});
-const rotation=document.querySelector('#rotation'),solidStage=document.querySelector('.solid-stage'),solidImage=document.querySelector('#solid-image'),rotationValue=document.querySelector('#rotation-value');function rotate(raw){const angle=Math.max(-80,Math.min(80,Math.round(raw/10)*10));rotation.value=angle;rotationValue.textContent=`${angle}°`;solidStage.setAttribute('aria-valuenow',angle);solidStage.setAttribute('aria-valuetext',`${angle} degrees. Use left and right arrow keys.`);solidImage.src=`assets/solid-turn-${(angle+80)/10}.webp`;}
+const rotation=document.querySelector('#rotation'),solidStage=document.querySelector('.solid-stage'),solidImage=document.querySelector('#solid-image'),rotationValue=document.querySelector('#rotation-value');function rotate(raw){const angle=Math.max(-80,Math.min(80,Math.round(raw/10)*10));rotation.value=angle;rotationValue.textContent=`${angle}°`;solidStage.setAttribute('aria-valuenow',angle);solidStage.setAttribute('aria-valuetext',`${angle} degrees. Use left and right arrow keys.`);solidImage.src=`assets/solid-turn-v1.9-${(angle+80)/10}.webp`;}
 rotation.addEventListener('input',()=>rotate(Number(rotation.value)));solidStage.addEventListener('keydown',e=>{if(['ArrowLeft','ArrowRight','Home','End'].includes(e.key)){e.preventDefault();rotate(e.key==='Home'?-80:e.key==='End'?80:Number(rotation.value)+(e.key==='ArrowLeft'?-10:10));}});let solidDrag=null;solidStage.addEventListener('pointerdown',e=>{solidDrag={x:e.clientX,angle:Number(rotation.value)};solidStage.setPointerCapture(e.pointerId);});solidStage.addEventListener('pointermove',e=>{if(solidDrag)rotate(solidDrag.angle+(e.clientX-solidDrag.x)*.65);});solidStage.addEventListener('pointerup',()=>solidDrag=null);solidStage.addEventListener('pointercancel',()=>solidDrag=null);
-new IntersectionObserver(entries=>{if(entries[0].isIntersecting){for(let i=0;i<17;i++){const image=new Image();image.src=`assets/solid-turn-${i}.webp`;}}},{rootMargin:'200px'}).observe(solidStage);
+new IntersectionObserver(entries=>{if(entries[0].isIntersecting){for(let i=0;i<17;i++){const image=new Image();image.src=`assets/solid-turn-v1.9-${i}.webp`;}}},{rootMargin:'200px'}).observe(solidStage);
 
 // Pointer-following movement settles through a damped spring, then stops rendering.
 function resetSurfaces(){document.querySelectorAll('[data-surface]').forEach(node=>{node.dispatchEvent(new Event('surface-reset'));});}
